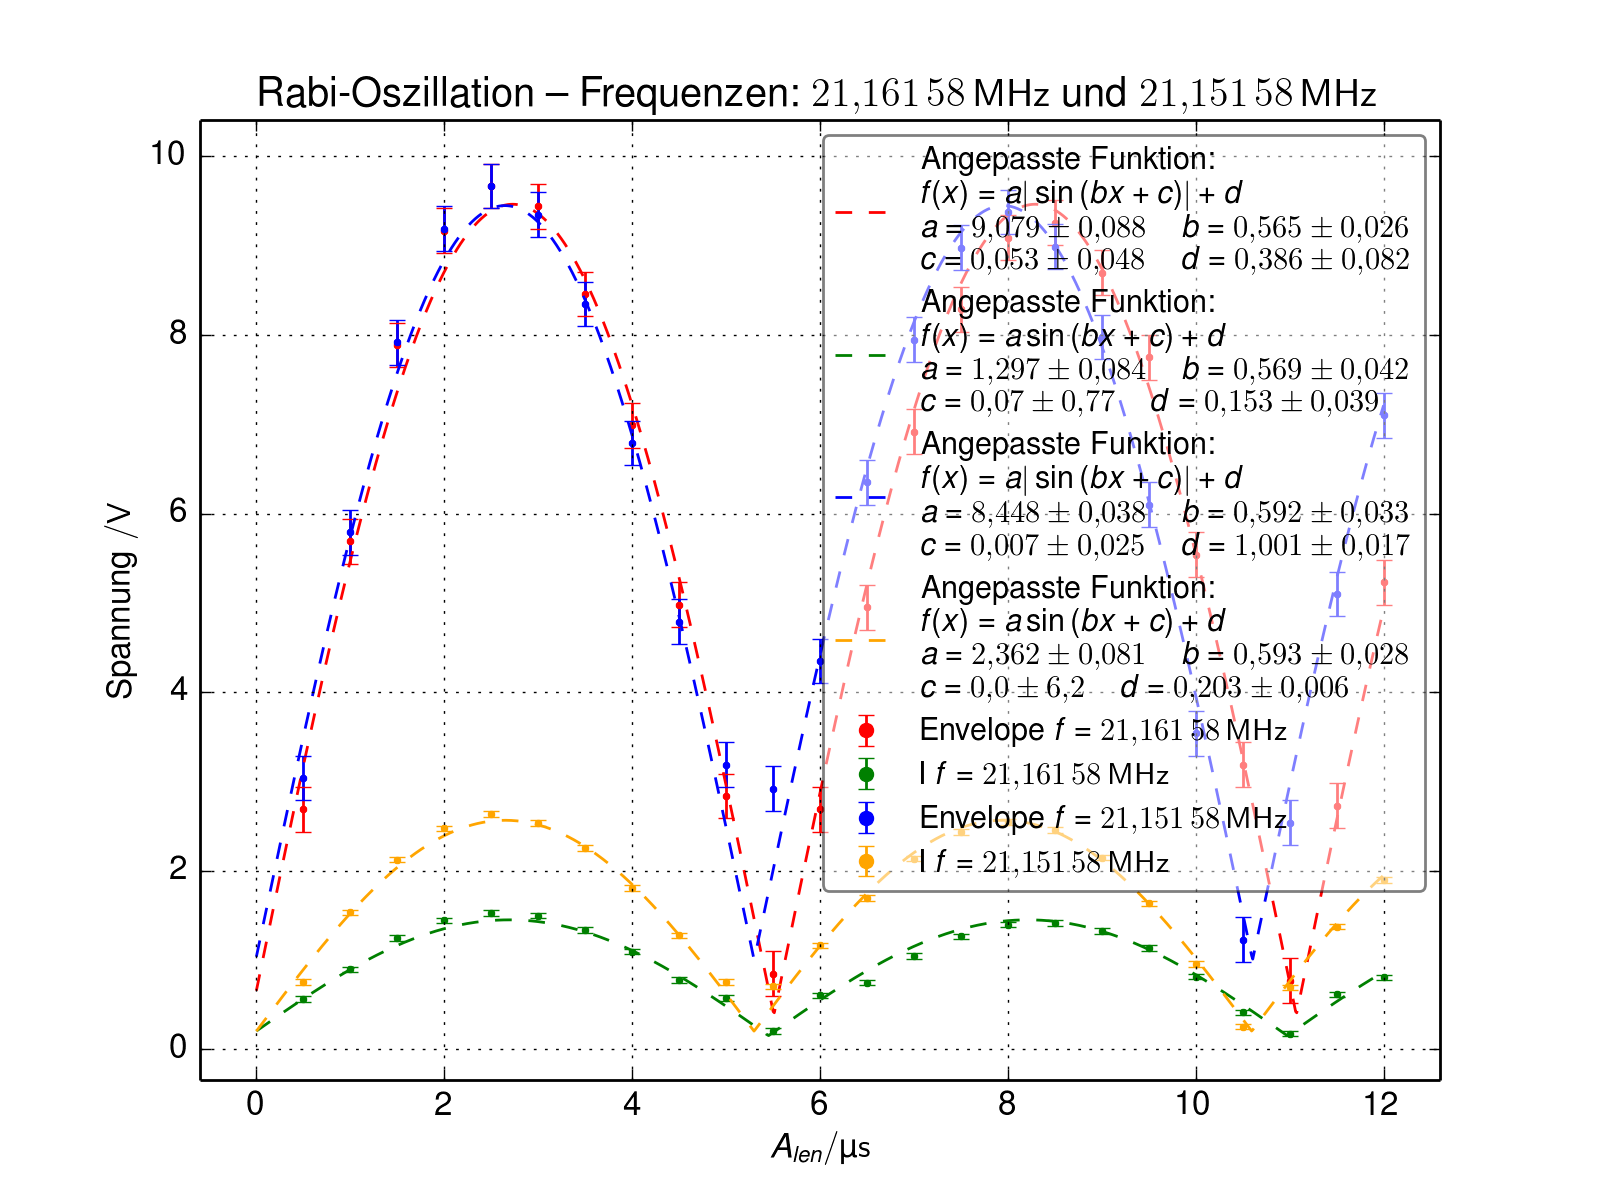
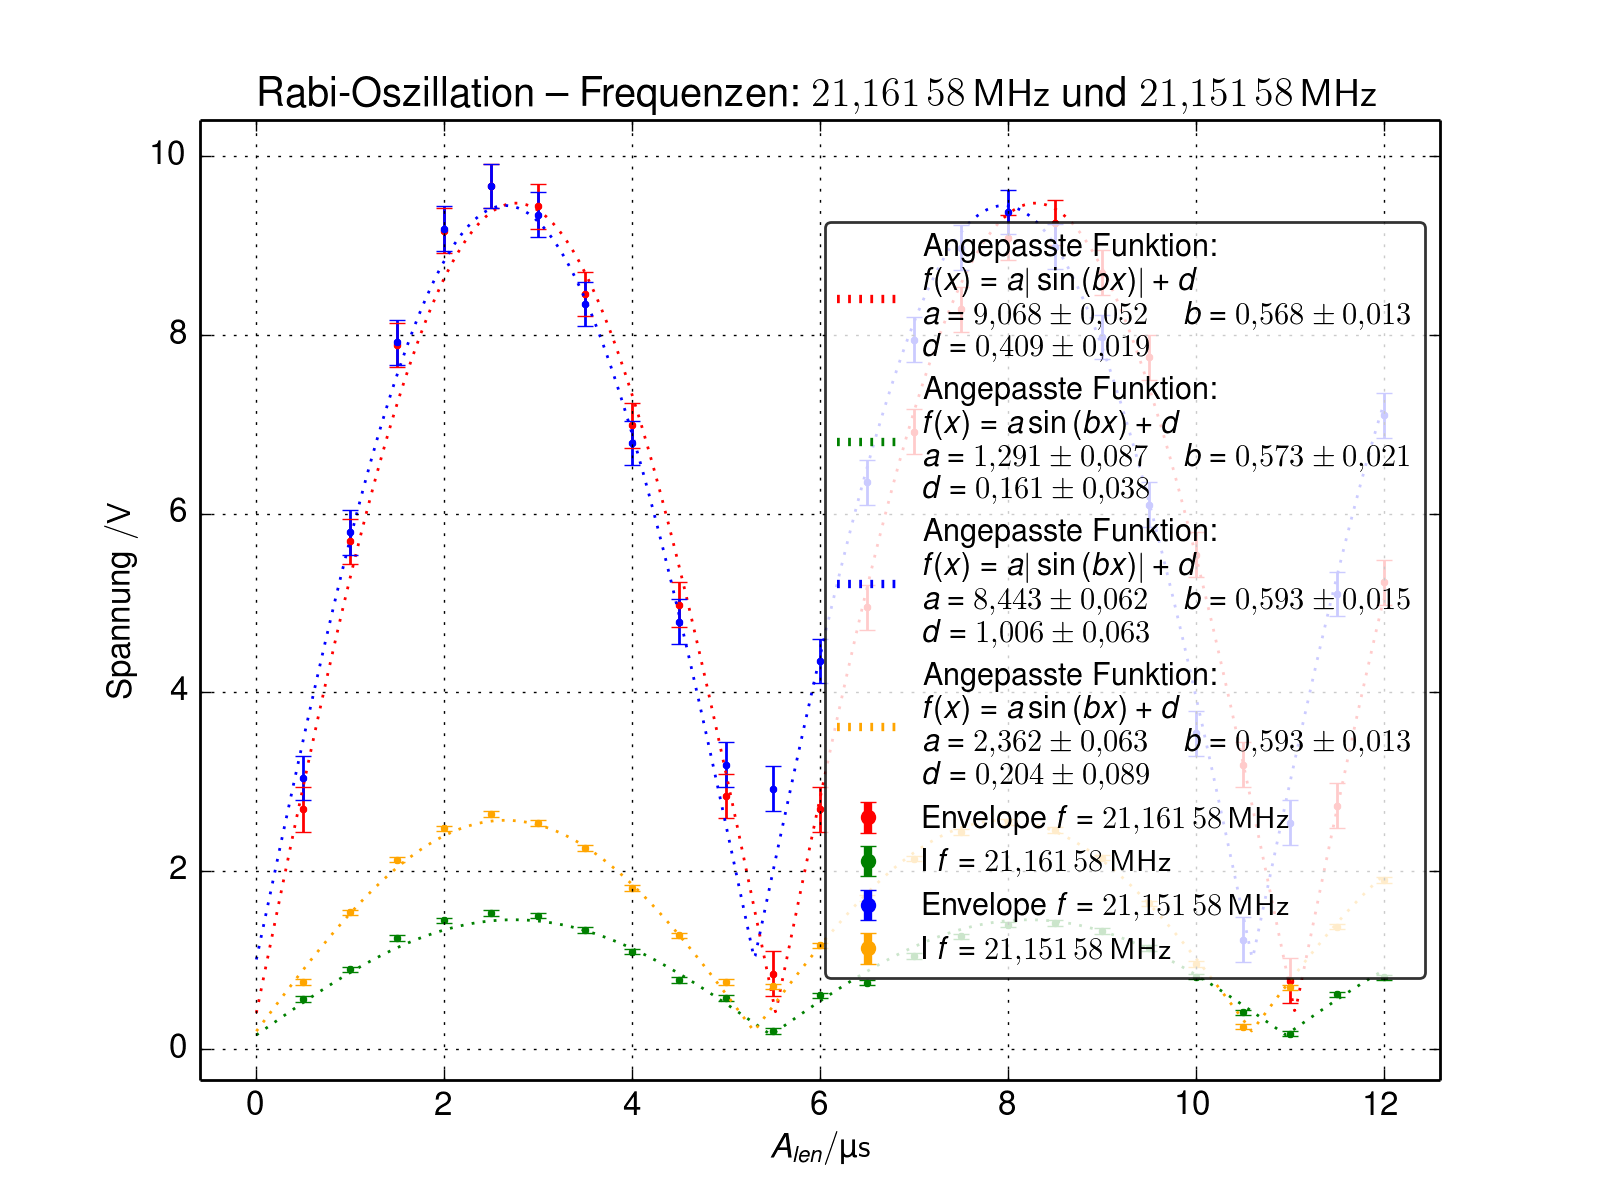
Alle bilder fertig gemacht. noch kontrollieren!

diff --git a/Versuch443-Kernmagnetische-Relaxation/Report/Data/plot_functions.py b/Versuch443-Kernmagnetische-Relaxation/Report/Data/plot_functions.py
@@ -47,6 +47,8 @@ def set_legend(fsize, msize, opac, location):
     leg = plt.legend(prop={'size':fsize}, loc=location, numpoints=1,
                      markerscale=msize_leg, fancybox=True)
     leg.get_frame().set_alpha(opac)
+    for legobj in leg.legendHandles:
+        legobj.set_linewidth(3.0)
     return leg
 
 def set_log_axis(x, y):
@@ -76,8 +78,10 @@ M0 = 0
 
 
 def f_saet(x, M0, T1):
-    f = M0*(1-np.exp(-x/T1))
-    return f
+    if T1 > 0:
+        return M0*(1-np.exp(-x/T1))
+    else:
+        return 1e5
 
 def f_pol(x, M0, T1):
     f = M0*(1-2*np.exp(-x/T1))
@@ -87,8 +91,11 @@ def f_hahn(x, M0, T2):
     f = M0*np.exp(-x/T2)
     return f
 
-def f_fid(x):
-    return f
+def f_fid(x, a, b, c, d):
+    if (b > 0):
+        return (a*np.exp(-(x/b)+c))+d
+    else:
+        return 1e5
 
 def f_carr(x, M0, T2):
     f = M0*np.exp(-x/T2)
@@ -98,15 +105,15 @@ def f_mg(x, M0, T2):
     f = M0*np.exp(-x/T2)
     return f
 
-def f_rabi_a(x, a, b, c, d):
-    if a < 4.0 and b > 0.4 and c < 2.0 and d < 2.5:
-        return (a*np.sin(b*(x+c)))+d
+def f_rabi_a(x, a, b, d):
+    if a < 4.0 and b > 0.4 and d < 2.5:
+        return (a*np.sin(b*x))+d
     else:
         return 1e5
 
-def f_rabi_b(x, a, b, c, d):
-    if a < 10.0 and b > 0.4 and c < 2.0 and d < 2.5:
-        return  np.sqrt((a*np.sin(b*(x+c)))**2)+d
+def f_rabi_b(x, a, b, d):
+    if a < 10.0 and b > 0.4 and d < 2.5:
+        return  np.sqrt((a*np.sin(b*x))**2)+d
     else:
         return 1e5
 
@@ -248,6 +255,86 @@ def plot_xy(fn, x, xlabel, y, ylabel, label, title, style, fsize, msize, opac, l
     # place a Legend in the plot
     leg = set_legend(fsize, msize, opac, location)
     
+    # display grid
+    plt.grid(True)
+    
+    set_log_axis(xlog, ylog)
+    
+    # save the plot in file
+    write_file(fn)
+    plt.close()
+
+def plot_xy_decay(fn, x, xlabel, y, ylabel, label, title, style, fsize, msize, opac, location, xlog, ylog):
+    plt.figure()
+    
+    # plot y against x
+    plt.plot(x, y, style, markersize=msize, label=ylabel)
+    
+    func = f_fid
+    func_form = r"$M(\tau)=M_0\exp{\left(-\frac{\tau}{T_2}+c\right)}+M_{Offset}$"
+    
+    xfit = []
+    yfit = []
+    
+    xmin = 1.5
+    xmax = 5
+    
+    i = 0
+    while i < len(x):
+        if i == 1000:
+            print ("Emergency Stop!!!!")
+            break
+        if x[i] > xmin and x[i] < xmax:
+            xfit.append(x[i])
+            yfit.append(y[i])
+        i += 1
+    
+    xfit = np.array(xfit)
+    yfit = np.array(yfit)
+    
+    #print (xfit.shape)
+    #print (yfit.shape)
+    
+    # Fit functions
+    f, varianz = op.curve_fit(func, xfit, yfit, maxfev=1000000)
+    df = np.sqrt(np.sqrt(varianz.diagonal()**2))
+    
+    fitted_x = np.linspace(0, xmin, 1000)
+    fitted_y = func(fitted_x, *f)
+    plt.plot(fitted_x, fitted_y, "--", color="green")
+    
+    fitted_x = np.linspace(xmax, 9, 1000)
+    fitted_y = func(fitted_x, *f)
+    plt.plot(fitted_x, fitted_y, "--", color="green")
+    
+    fitted_x = np.linspace(xmin, xmax, 1000)
+    fitted_y = func(fitted_x, *f)
+    plt.plot(fitted_x, fitted_y, "--", color="red",
+             label="Angepasste Funktion: \n" + func_form +
+             "\n" +
+             r"$M_0=\SI{%s(%s)}{\volt}$" % (str(round(f[0],3)),
+                                            str(round(df[0],4))[-2:]) +
+             "\ \ \ \ " +
+             r"$T_2=\SI{%s(%s)}{\milli\second}$" % (str(round(f[1],3)),
+                                                    str(round(df[1],4))[-2:]) +
+             "\n" +
+             r"$c=\SI{%s(%s)}{\volt}$" % (str(round(f[2],3)),
+                                            str(round(df[2],4))[-2:]) +
+             "\ \ \ \ " +
+             r"$M_{Offset}=\SI{%s(%s)}{\milli\second}$" % (str(round(f[3],3)),
+                                                    str(round(df[3],4))[-2:]))
+    
+    # set axis labels
+    plt.title(title)
+    plt.xlabel(xlabel)
+    plt.ylabel(label)
+    
+    plt.xlim(-1,10)
+    
+    # place a Legend in the plot
+    leg = set_legend(fsize, msize, opac, location)
+    
+        
     # display grid
     plt.grid(True)
     
@@ -522,12 +609,12 @@ def plot_xy_errorlist(fn, xlist, xlabel, ylist , ylabel, yerrorlist, labels, tit
     
     colors = ["red", "green", "blue", "orange"]
     func = [f_rabi_b, f_rabi_b, f_rabi_b, f_rabi_b]
-    func_form = [r"$f(x)=a |\sin{\left(b x+c\right)}|+d$",
-                 r"$f(x)=a \sin{\left(b x+c\right)}+d$",
-                 r"$f(x)=a |\sin{\left(b x+c\right)}|+d$",
-                 r"$f(x)=a \sin{\left(b x+c\right)}+d$"]
-    p0 = [[8.0, 0.5, 0, 0], [1.0, 0.5, 1.0, 2.0],
-          [8.0, 0.5, 0, 0], [1.0, 0.5, 1.0, 2.0]]
+    func_form = [r"$f(x)=a |\sin{\left(b x\right)}|+d$",
+                 r"$f(x)=a \sin{\left(b x\right)}+d$",
+                 r"$f(x)=a |\sin{\left(b x\right)}|+d$",
+                 r"$f(x)=a \sin{\left(b x\right)}+d$"]
+    p0 = [[8.0, 0.5, 0], [1.0, 0.5, 0.2],
+          [8.0, 0.5, 0], [1.0, 0.5, 0.2]]
     
     
     i = 0
@@ -545,7 +632,7 @@ def plot_xy_errorlist(fn, xlist, xlabel, ylist , ylabel, yerrorlist, labels, tit
         fitted_x = np.linspace(0, 12, 1000)
         fitted_y = func[i](fitted_x, *f)
         
-        plt.plot(fitted_x, fitted_y, "--", color=colors[i],
+        plt.plot(fitted_x, fitted_y, ":", color=colors[i],
                  label="Angepasste Funktion: \n" + func_form[i] +
                  "\n" +
                  r"$a=\SI{%s(%s)}{}$" % (str(round(f[0],3)),
@@ -554,11 +641,8 @@ def plot_xy_errorlist(fn, xlist, xlabel, ylist , ylabel, yerrorlist, labels, tit
                  r"$b=\SI{%s(%s)}{}$" % (str(round(f[1],3)),
                                          str(round(df[1],4))[-2:])+
                  "\n" +
-                 r"$c=\SI{%s(%s)}{}$" % (str(round(f[2],3)),
-                                         str(round(df[2],4))[-2:]) +
-                 "\ \ \ \ " +
-                 r"$d=\SI{%s(%s)}{}$" % (str(round(f[3],3)),
-                                         str(round(df[3],4))[-2:]))
+                 r"$d=\SI{%s(%s)}{}$" % (str(round(f[2],3)),
+                                         str(round(df[2],4))[-2:]))
         i += 1
     
     # set axis labels

diff --git a/Versuch443-Kernmagnetische-Relaxation/Report/Data/plottings.py b/Versuch443-Kernmagnetische-Relaxation/Report/Data/plottings.py
@@ -67,12 +67,12 @@ plt.savefig_png = 1
 
 fsize = 11.0
 msize = 5.0
-opac = 0.5
+opac = 0.8
 location = 5
 
 
-FIDONOFF = 1    # Vielleicht eine Funktion fitten
-RabiONOFF = 1    # ========== FERTIG ==========
+FIDONOFF = 0    # ========== FERTIG ==========
+RabiONOFF = 0    # ========== FERTIG ==========
 OffsetONOFF = 0    # ========== FERTIG ==========
 Roh_PulsONOFF = 0    # ========== FERTIG ==========
 SaettigungONOFF = 0    # ========== FERTIG ========== sieht aber scheisse aus und gibt einen overflow
@@ -97,8 +97,8 @@ Bild, Rabi, HomoTransRelaxHahn, Polarisation, Saettigung = ImportData()
 
 # Calculate Offset
 aveEnv = [np.mean(Bild[3][1]), np.sqrt(np.var(Bild[3][1])/len(Bild[3][1]))]
-aveQ = [np.mean(Bild[3][2]), np.sqrt(np.var(Bild[3][2])/len(Bild[3][2]))]
-aveI = [np.mean(Bild[3][3]), np.sqrt(np.var(Bild[3][3])/len(Bild[3][3]))]
+aveQ   = [np.mean(Bild[3][2]), np.sqrt(np.var(Bild[3][2])/len(Bild[3][2]))]
+aveI   = [np.mean(Bild[3][3]), np.sqrt(np.var(Bild[3][3])/len(Bild[3][3]))]
 
 
 # Offset (ohne pulse)
@@ -145,6 +145,7 @@ if Roh_PulsONOFF == 1:
 if RabiONOFF == 1:
     print ("Rabi-Oszillation...")
     style = "."
+    location = 5
     Rabi_freq1, Rabi_freq2 = Rabi
     
     plt.plot_xy_errorlist("Rabi_freq1",
@@ -323,8 +324,8 @@ if FIDONOFF == 1:
     FID = [Bild[2], Bild[28], Bild[29]]
     i = 0
     plt.plot_x3y("FID_env_Q_I" + str(i),
-                 FID[i][0]*1e6,
-                 r"Zeit $/\SI{}{\micro\second}$",
+                 FID[i][0]*1e3,
+                 r"Zeit $/\SI{}{\milli\second}$",
                  FID[i][1]-aveEnv[0], "Envelope",
                  FID[i][2]-aveQ[0], "Q",
                  FID[i][3]-aveI[0], "I",
@@ -335,14 +336,14 @@ if FIDONOFF == 1:
     
     i = 1
     while i < len(FID):
-        plt.plot_xy("FID_env" + str(i),
-                     FID[i][0]*1e6,
-                     r"Zeit $/\SI{}{\micro\second}$",
-                     FID[i][1]-aveEnv[0], "Envelope",
-                     r"Spannung $/\SI{}{\volt}$",
-                     "Free Induction Decay: " +
-                     r"$f=\SI{21.16133}{\mega\hertz}$",
-                     style, fsize, msize, opac, location, False, False)
+        plt.plot_xy_decay("FID_env" + str(i),
+                          FID[i][0]*1e3,
+                          r"Zeit $/\SI{}{\milli\second}$",
+                          FID[i][1]-aveEnv[0], "Envelope",
+                          r"Spannung $/\SI{}{\volt}$",
+                          "Free Induction Decay: " +
+                          r"$f=\SI{21.16133}{\mega\hertz}$",
+                          "-", fsize, 2, opac, location, False, False)
         i += 1
     
     print ("    ======== Done ========\n")
